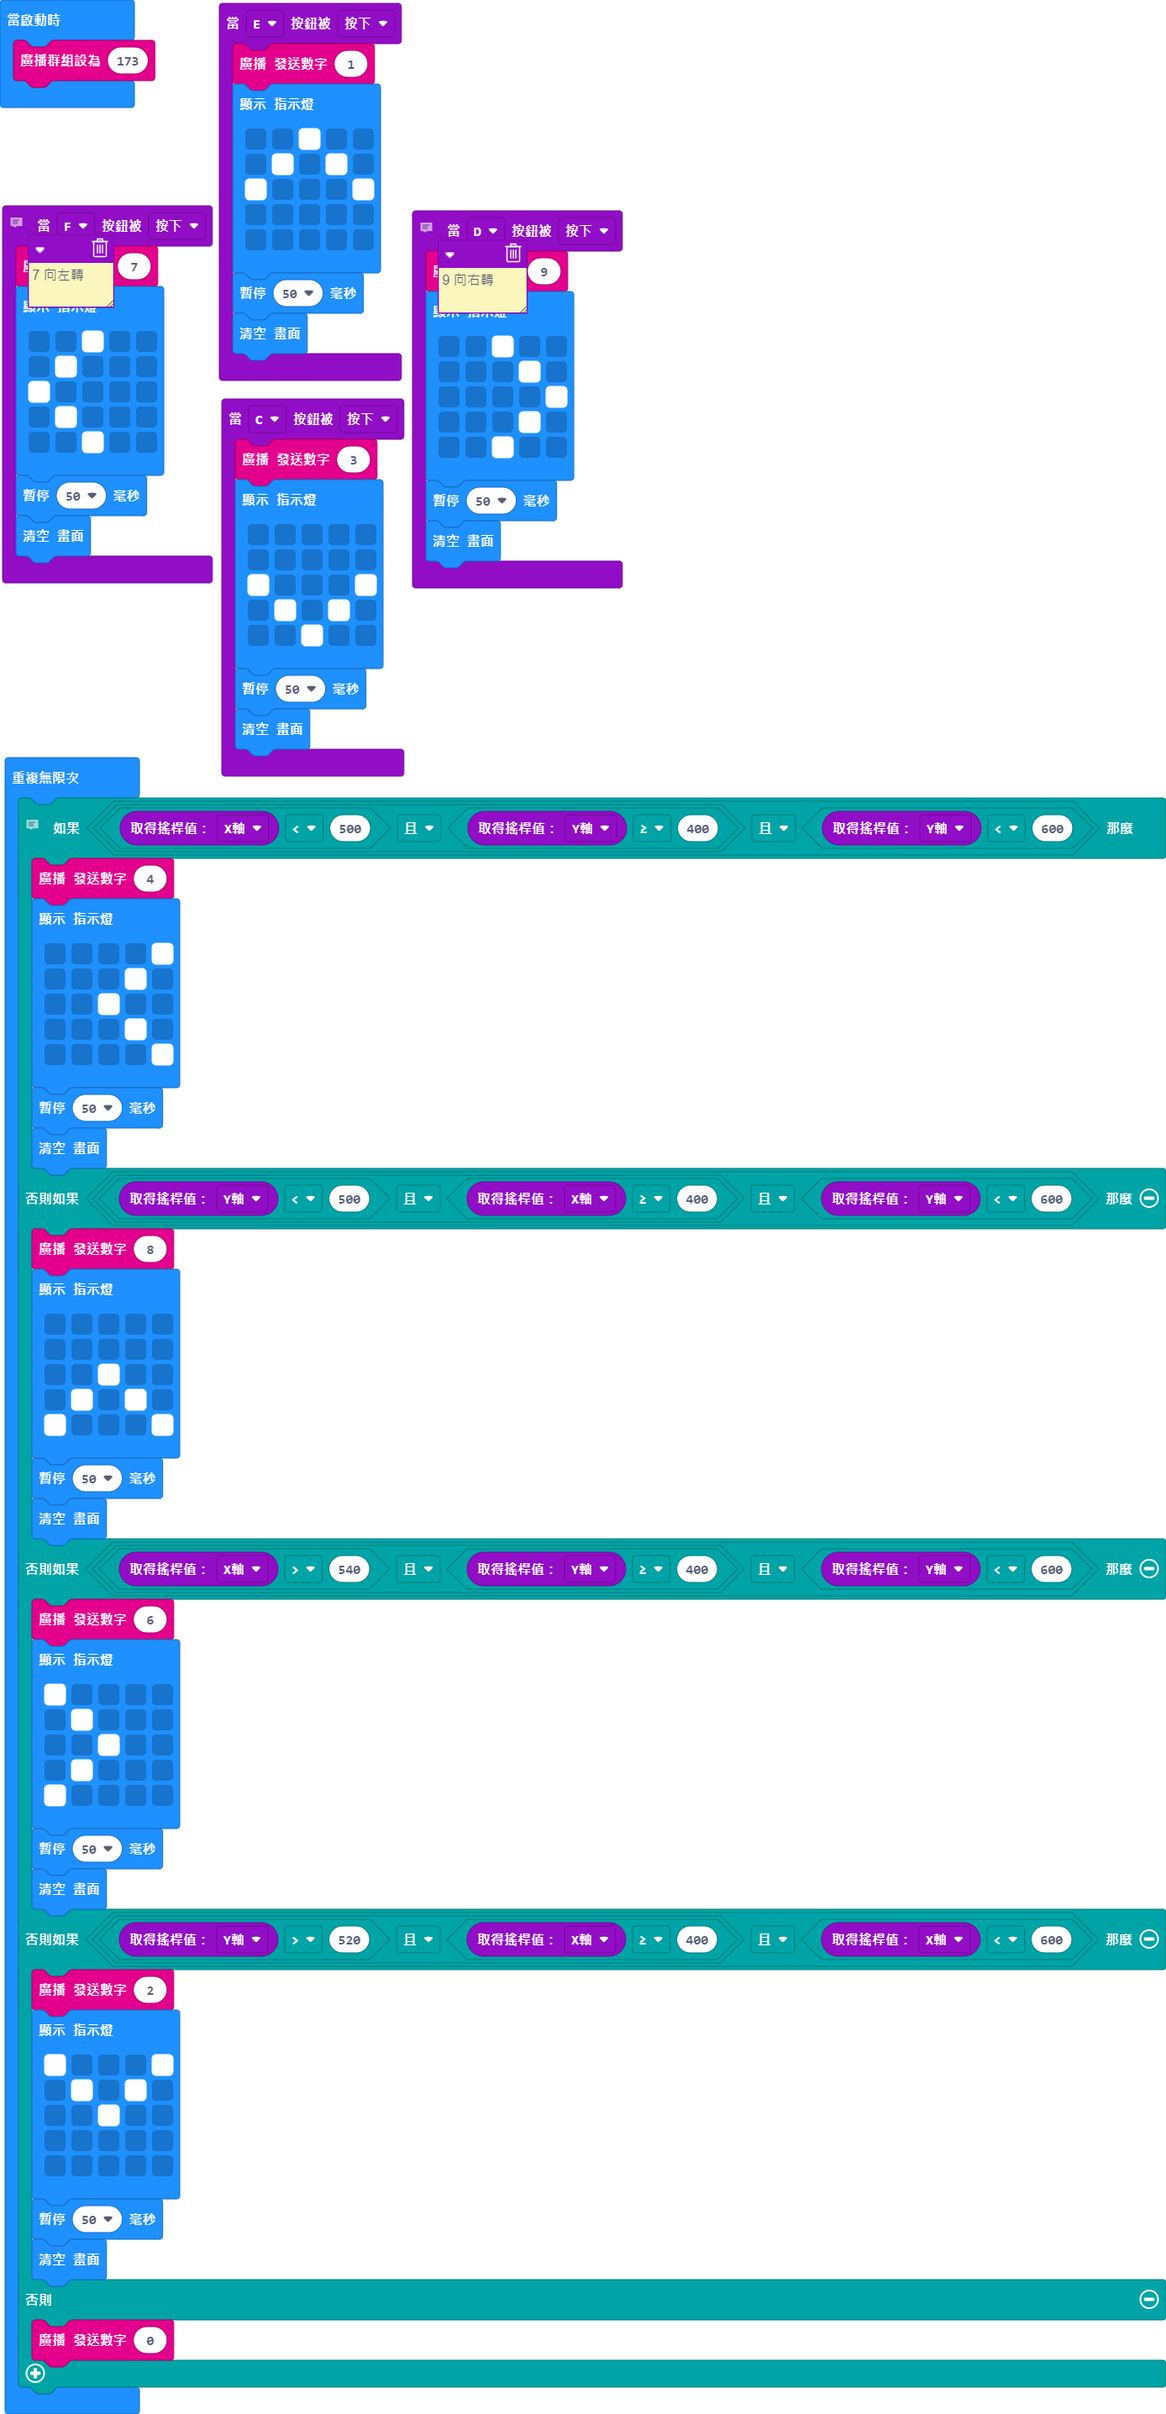
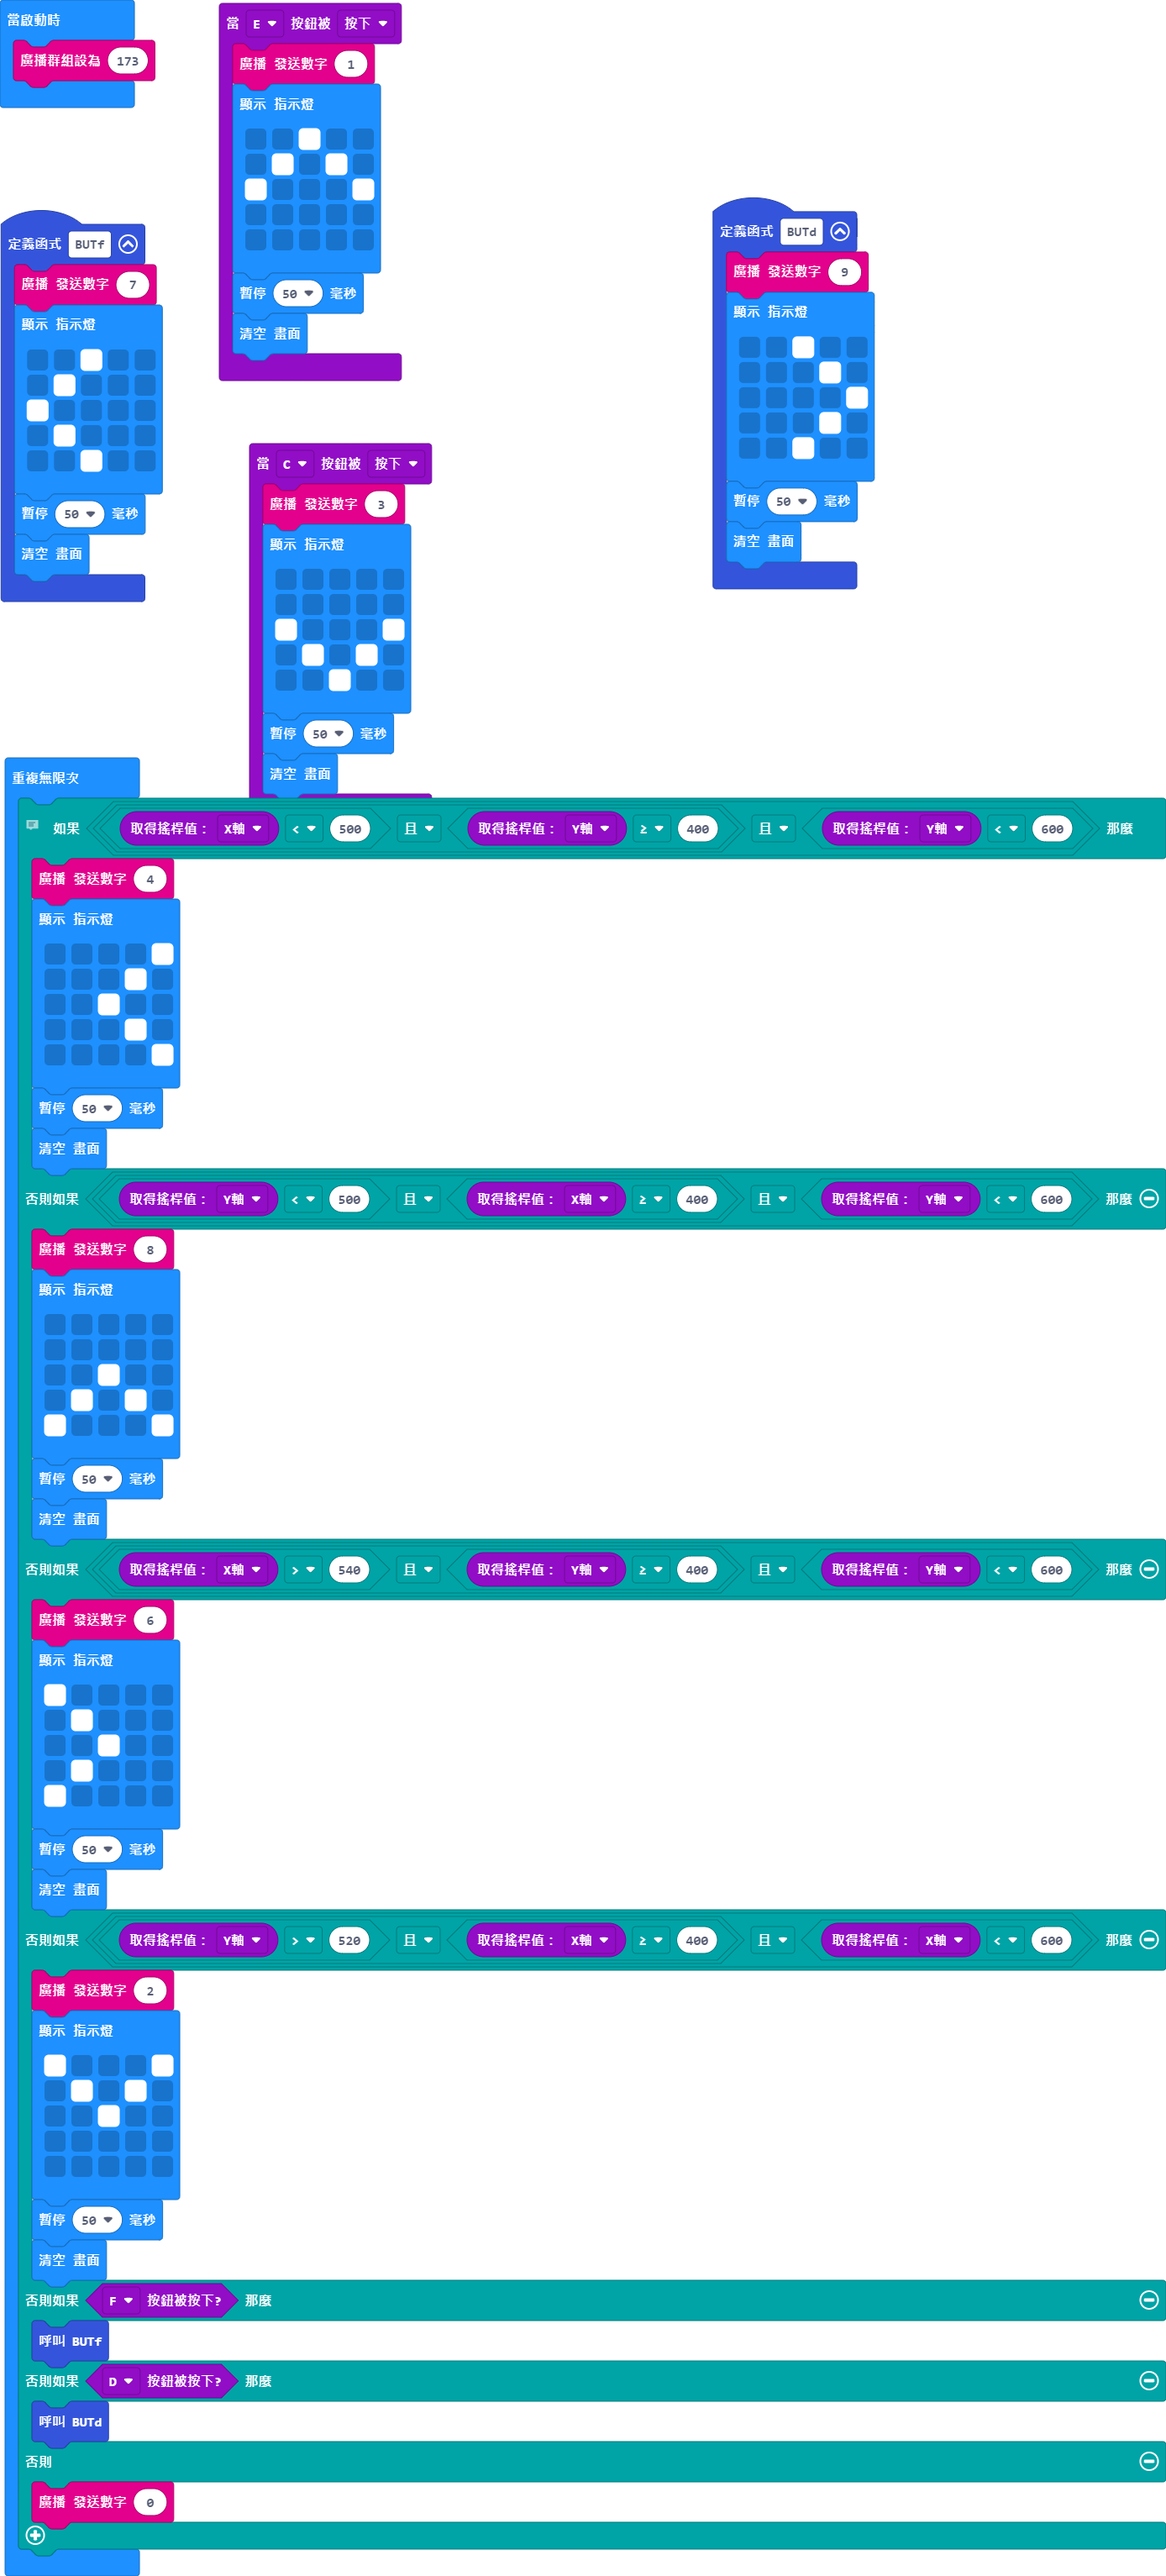
更新 main.blocks, main.ts

diff --git a/main.ts b/main.ts
@@ -10,8 +10,7 @@ KSB045.onBtnChanged(KSB045.btnName.C, KSB045.pushType.down, function () {
     basic.pause(50)
     basic.clearScreen()
 })
-// 9 向右轉
-KSB045.onBtnChanged(KSB045.btnName.D, KSB045.pushType.down, function () {
+function BUTd () {
     radio.sendNumber(9)
     basic.showLeds(`
         . . # . .
@@ -22,9 +21,8 @@ KSB045.onBtnChanged(KSB045.btnName.D, KSB045.pushType.down, function () {
         `)
     basic.pause(50)
     basic.clearScreen()
-})
-// 7 向左轉
-KSB045.onBtnChanged(KSB045.btnName.F, KSB045.pushType.down, function () {
+}
+function BUTf () {
     radio.sendNumber(7)
     basic.showLeds(`
         . . # . .
@@ -35,7 +33,7 @@ KSB045.onBtnChanged(KSB045.btnName.F, KSB045.pushType.down, function () {
         `)
     basic.pause(50)
     basic.clearScreen()
-})
+}
 KSB045.onBtnChanged(KSB045.btnName.E, KSB045.pushType.down, function () {
     radio.sendNumber(1)
     basic.showLeds(`
@@ -98,6 +96,10 @@ basic.forever(function () {
             `)
         basic.pause(50)
         basic.clearScreen()
+    } else if (KSB045.getBtnValue(KSB045.btnName.F)) {
+        BUTf()
+    } else if (KSB045.getBtnValue(KSB045.btnName.D)) {
+        BUTd()
     } else {
         radio.sendNumber(0)
     }
